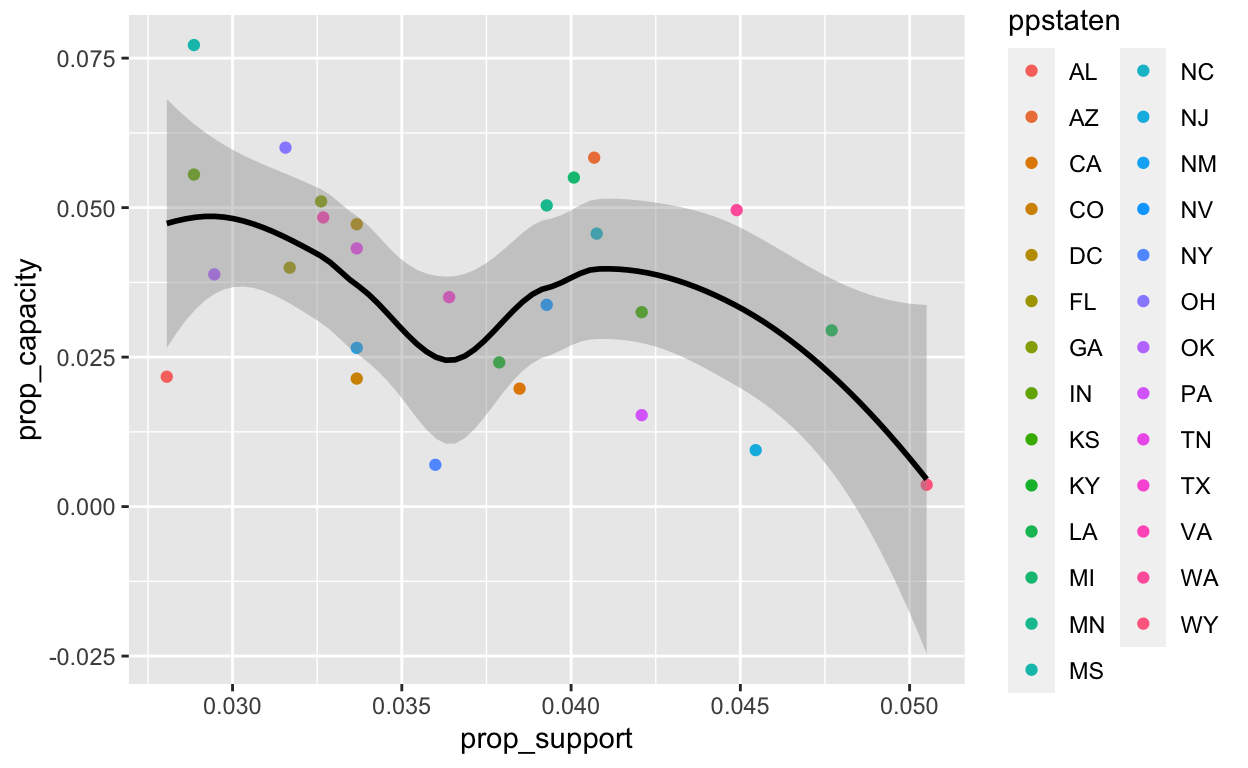
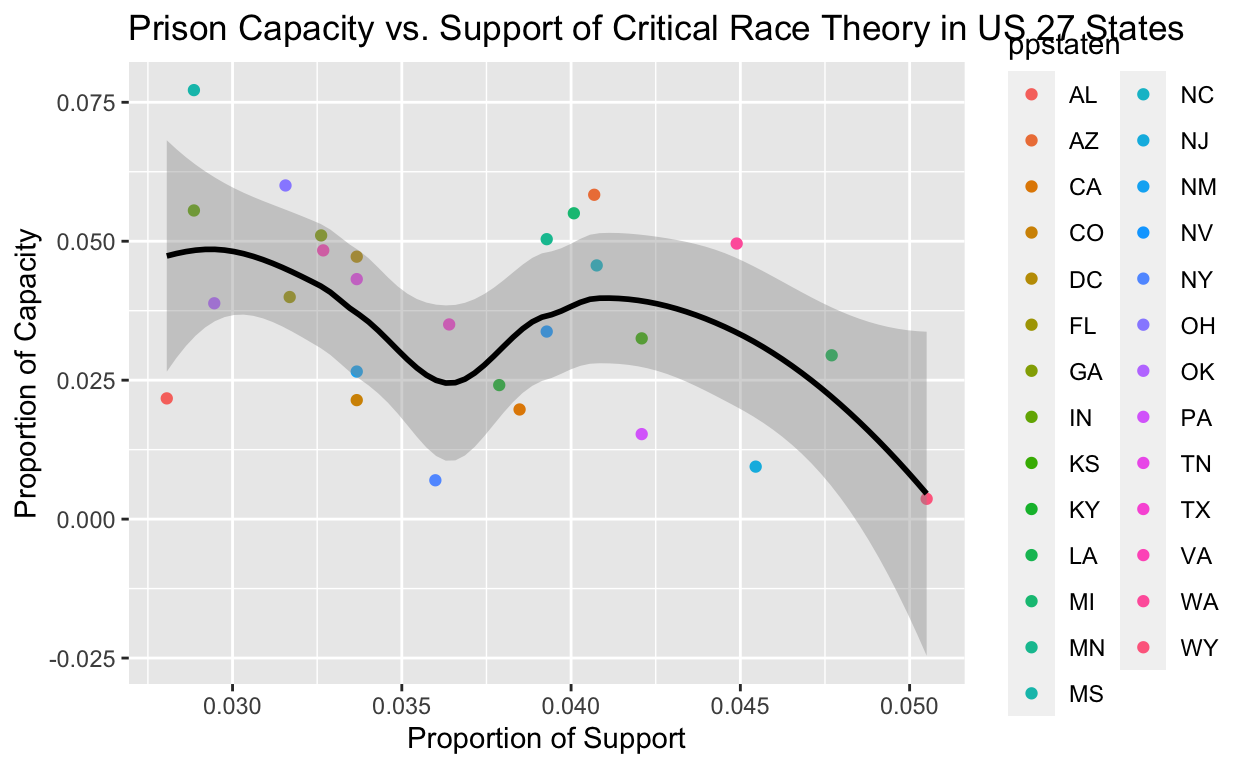
asdfghjgfds

diff --git a/index.html b/index.html
@@ -1543,14 +1543,41 @@ code span.wa { color: #5e5e5e; font-style: italic; } /* Warning */
 </div>
 
 <div class="d-article">
-<h2 id="project-thoughts">Project thoughts</h2>
-<p>I am interested in exploring data related to the education system and criminal justice.</p>
-<p>Research Question: Are places with private prisons more likely to have adverse opinions on Critical Race Theory?</p>
-<p>Proposal: I will be analyzing the relationship between the presence of private prisons and people’s views on Critical Race Theory in school systems. We often discuss the school to prison pipeline, understanding statistics like Black males who aren’t reading at their grade level by 2nd grade, are almost guaranteed to fall victim to the prison system. With the recent attacks not just on education, but also on critical race theory, I am curious to see if there is any correlation between not just where private prisons are owned and how much incarceration occurs, but also will these numbers reflect the states/ares with a population who have adverse opinions on the teaching of slavery, the civil war, and other topics.</p>
-<p>I will be using two data sets, that are both loaded into R. One is a data set describing the presence of private prisons throughout the last 30 years, their location, and the amount of persons incarcerated in them. The other data set is a survey with measuring wokeness, including a question about critical race theory.</p>
-<p>The variables analyzed will be the state and the design capacity of the prisons, analyzing how many each state has, and the variables of the other set will be the state and level of support.</p>
-<p>The outcome that will be analyzed is the amount of support in areas with more prisons and areas with higher capacity prisons.</p>
-<p>I think I will find that the areas with the most prisons and with higher cpacity prisons will result in less support for criitcal race theory, and I am interested in seeing if areas with more capacity will have less support than areas with more prisons.</p>
+<h2 id="historical-context">Historical Context:</h2>
+<p>In 1947, esteemed psychologists Dr. Kenneth Clark and Dr. Mamie Clark, the first African Americans to graduate from Columbia University with PhDs, conducted many doll tests and treated black youth at their independently founded center, the Northside Testing and Consultation Center. African American children in the area were found to have what the Clarks diagnosed as “Ingrained frustration,” which resulted from an early consciousness of race, understanding black or darker skin as inferior to white or lighter skin. These beliefs caused unruly behavior in young children like Peter, and the Clarks not only sought to discover the cause, but to find potential treatments. The Clarks found prejudice and discrimination like Jim Crow laws were damaging to the self-esteem of black youth, and therefore psychologically and emotionally harmed them. As a result of the Clarks’ studies, several treatments were found. These included increasing their literacy in addition to education surrounding African American culture.
+These findings align with recent statistics showing how black youth, especially boys, who weren’t reading at their reading level by 2nd grade would be almost guaranteed to be incarcerated before they turned 18. The legal suppression of literacy for black communities during slavery has left a legacy the youth are still fighting. In addition to that, the Clarks’ research reveals the intentional banning of books and curriculum that is representational and educational on topics of black culture is an attack on the psychological and mental health of black youth, since it was the very thing used as treatment in the study. It is important to note that for reasons like this, these tests were instrumental in revealing the horrors of academic racism in court cases like Brown v. Board of Education.
+In addition to working for a civil rights law firm, I have done organizing for prison abolitionist campaigns, and as a result of this and the reasons outlined above, I am interested in exploring data related to the school to prison pipeline, the education system, and criminal justice. This project will investigate the question: Is there any correlation between prison capacities and opinions on Critical Race Theory in US states.
+##</p>
+<p>##Research Question and Hypothesis:
+I will be analyzing the relationship between the capacities of prisons and people’s views on Critical Race Theory in school systems. We often discuss the school to prison pipeline, understanding statistics like Black males who aren’t reading at their grade level by 2nd grade, are almost guaranteed to fall victim to the prison system. With the recent attacks not just on education, but also on critical race theory, I am curious to see if there is any correlation between how much incarceration occurs in states/areas with a population who have adverse opinions on the teaching of slavery, civil war, and other topics.
+I will be using two data sets that are both loaded into R. One is a data set describing the presence of private prisons in the US throughout the last 30 years, their location, and their capacity. The other data set is a USA Today survey measuring wokeness, including a question about critical race theory.
+The variables of the prison facilities analyzed will be the state and the design capacity of the prisons, and the variables of the other set will be the state and level of support. The outcome that will be analyzed is the amount of support in areas with high capacity prisons (more incarcerated individuals).
+I think I will find that the areas with the most prisons and with higher capacity prisons will result in less support for critical race theory, and I am interested in seeing if areas with more capacity will have less support than areas with more prisons.
+##</p>
+<p>##Prison Facilities Data Set
+| Name | Description |
+|——————-|————————————————————————————————————|
+|<code>facilityname</code> | Name of Facility |
+| <code>state</code> | The state the prison is found in abbreviated |
+| <code>year</code> | The year the data was collected |
+| <code>female</code> | Gender identity of the respondent (1 = female, 0 = male) |
+| <code>designcapacity</code> | Number of potential incarcerated |</p>
+<p>##Wokeness Survey Data Set
+| Name | Description |
+|——————-|————————————————————————————————————|
+| <code>BGC5_4</code> | Question of support for Critical Race Theory (Changed Strongly Support, Somewhat Support, Somewhat Oppose, and Strongly Oppose to 100, 75, 50, and 25) |
+| <code>ppstaten</code> | The state the respondent is from abbreviated |
+| <code>year</code> | The year the data was collected |
+| <code>female</code> | Gender identity of the respondent (1 = female, 0 = male) |
+| <code>designcapacity</code> | Number of potential incarcerated |
+##Combined Data Set
+| Name | Description |
+|——————-|————————————————————————————————————|
+| <code>ppstaten</code> | The state the respondant is from and the prison is found |
+| <code>n</code> | Mean value of support per state |
+| <code>prop_support</code> | proportion of support in regards to entire sample |
+| <code>sums</code> | Mean value of prison capacity per state |
+| <code>prop_capacity</code> | proportion of capacity in regards to entire sample |</p>
 <div class="layout-chunk" data-layout="l-body">
 <div class="sourceCode">
 <pre class="sourceCode r"><code class="sourceCode r"><span><span class='kw'><a href='https://rdrr.io/r/base/library.html'>library</a></span><span class='op'>(</span><span class='va'><a href='https://tidyverse.tidyverse.org'>tidyverse</a></span><span class='op'>)</span></span>
@@ -1610,7 +1637,12 @@ code span.wa { color: #5e5e5e; font-style: italic; } /* Warning */
 <span><span class='fu'><a href='https://ggplot2.tidyverse.org/reference/ggplot.html'>ggplot</a></span><span class='op'>(</span><span class='va'>both</span>, mapping <span class='op'>=</span> <span class='fu'><a href='https://ggplot2.tidyverse.org/reference/aes.html'>aes</a></span><span class='op'>(</span>x <span class='op'>=</span> <span class='va'>prop_support</span>,</span>
 <span>                     y <span class='op'>=</span> <span class='va'>prop_capacity</span><span class='op'>)</span><span class='op'>)</span> <span class='op'>+</span></span>
 <span>  <span class='fu'><a href='https://ggplot2.tidyverse.org/reference/geom_point.html'>geom_point</a></span><span class='op'>(</span>mapping <span class='op'>=</span> <span class='fu'><a href='https://ggplot2.tidyverse.org/reference/aes.html'>aes</a></span><span class='op'>(</span>color <span class='op'>=</span> <span class='va'>ppstaten</span><span class='op'>)</span><span class='op'>)</span> <span class='op'>+</span></span>
-<span>  <span class='fu'><a href='https://ggplot2.tidyverse.org/reference/geom_smooth.html'>geom_smooth</a></span><span class='op'>(</span>color <span class='op'>=</span> <span class='st'>"black"</span><span class='op'>)</span> </span></code></pre>
+<span>  <span class='fu'><a href='https://ggplot2.tidyverse.org/reference/geom_smooth.html'>geom_smooth</a></span><span class='op'>(</span>color <span class='op'>=</span> <span class='st'>"black"</span><span class='op'>)</span> <span class='op'>+</span></span>
+<span>  <span class='fu'><a href='https://ggplot2.tidyverse.org/reference/labs.html'>labs</a></span><span class='op'>(</span></span>
+<span>    title <span class='op'>=</span> <span class='st'>"Prison Capacity vs. Support of Critical Race Theory in US 27 States"</span>,</span>
+<span>    x <span class='op'>=</span> <span class='st'>"Proportion of Support"</span>,</span>
+<span>    y <span class='op'>=</span> <span class='st'>"Proportion of Capacity"</span></span>
+<span>  <span class='op'>)</span></span></code></pre>
 </div>
 <p><img src="index_files/figure-html5/unnamed-chunk-2-1.png" width="624" /></p>
 </div>
